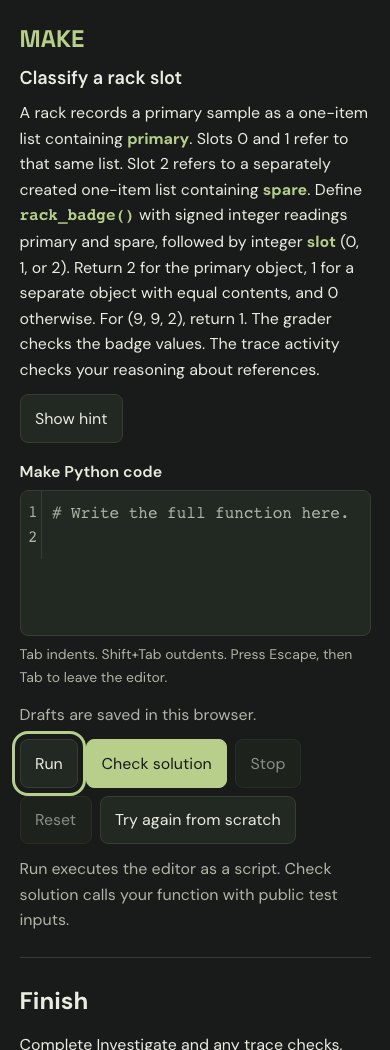
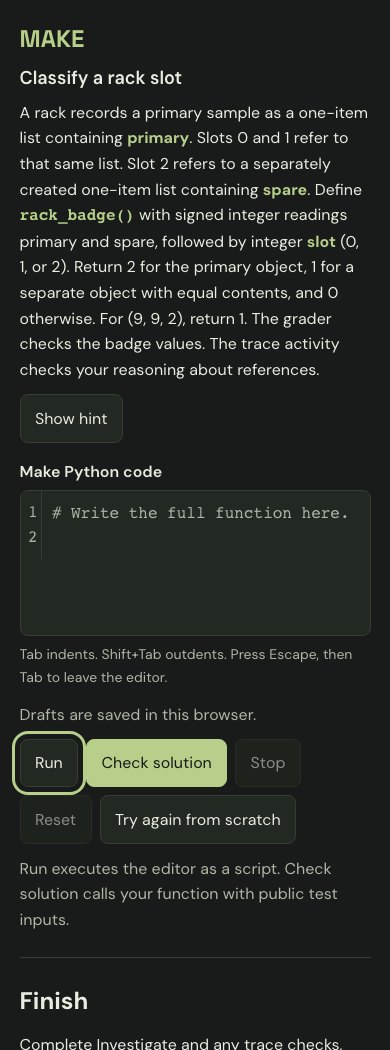
Add progressive help to mandatory trace checkpoints

diff --git a/src/learning/TraceCheckpoint.tsx b/src/learning/TraceCheckpoint.tsx
@@ -1,16 +1,36 @@
 import { useState } from 'react';
-import { gradeTrace } from './trace';
-import type { TraceAttempt, TraceCheck } from './trace';
+import { gradeTrace, traceHelpOrder } from './trace';
+import type { TraceAttempt, TraceCheck, TraceHelpLevel } from './trace';
 
-export function TraceCheckpoint({ check, attempts, onCheck }: {
-  check: TraceCheck; attempts: TraceAttempt[]; onCheck: (grade: ReturnType<typeof gradeTrace>) => void;
+export function TraceCheckpoint({ check, attempts, help, onHelp, onCheck }: {
+  check: TraceCheck; attempts: TraceAttempt[]; help: TraceHelpLevel[];
+  onHelp: (level: TraceHelpLevel) => void; onCheck: (grade: ReturnType<typeof gradeTrace>) => void;
 }) {
+  const next = traceHelpOrder.find(level => !help.includes(level));
   const last = attempts.at(-1);
   const [answers, setAnswers] = useState(() => last?.answers ?? check.rows.map(() => check.columns.map(() => '')));
   return <section className="pilot-section" aria-labelledby={check.id}>
     <h3 className="pilot-exercise-heading" id={check.id}>{check.title}</h3>
     <p>{check.prompt}</p>
     <pre>{check.source}</pre>
+    {help.length > 0 && <div className="pilot-feedback" aria-label="Trace help">
+      <h4>Trace help</h4>
+      {help.includes('concept') && <p>{check.help.concept}</p>}
+      {help.includes('guidance') && <p>{check.help.guidance}</p>}
+      {help.includes('worked') && <>
+        <h4>Worked trace</h4>
+        <ul>{check.rows.map(({ label, expected }, index) => <li key={label}>
+          <strong>{label}.</strong> {check.columns.map((column, col) => column + ': ' + expected[col]).join(' · ')}.
+          {' '}{check.help.worked[index]}
+        </li>)}</ul>
+        <p>Use the explanation to correct the table and check it again. Your result will be recorded as assisted practice.</p>
+      </>}
+    </div>}
+    {next && !last?.correct && <div className="pilot-controls">
+      <button type="button" onClick={() => onHelp(next)}>{{
+        concept: 'Show trace hint', guidance: 'Show tracing guidance', worked: 'Show worked trace',
+      }[next]}</button>
+    </div>}
     <form onSubmit={event => {
       event.preventDefault();
       if (!last?.correct && answers.every(row => row.every(answer => answer.trim()))) onCheck(gradeTrace(check, answers));

diff --git a/src/courses/f01-03.ts b/src/courses/f01-03.ts
@@ -69,6 +69,15 @@ export const f0103Sequence: LessonSequence = {
     columns: ['second', 'Same object?', 'Equal contents?'],
     rows: [{ label: 'Line 2', expected: ['a', 'yes', 'yes'] }, { label: 'Line 3', expected: ['b', 'no', 'yes'] },
       { label: 'Line 4', expected: ['a', 'yes', 'yes'] }],
+    help: {
+      concept: 'Draw an arrow from each name to a list. Check the arrows for identity and the entries for equality.',
+      guidance: 'A name on the right reuses its arrow target. A list display makes a different object, even if the entries match.',
+      worked: [
+        'Second receives the reference already held by first, so both comparisons are true.',
+        'The new list has the same entry as A, but the arrow from second now ends at B.',
+        'The assignment gives second the reference to A again, so both names share it.',
+      ],
+    },
     mistake: { id: 'equal-implies-identical', message: 'Your line 3 comparison treats the equal entry as the same object. Check where the list was created.',
       cells: [{ row: 1, column: 0, value: 'b' }, { row: 1, column: 1, value: 'yes' }, { row: 1, column: 2, value: 'yes' }] },
   },
@@ -77,6 +86,15 @@ export const f0103Sequence: LessonSequence = {
     prompt: 'Compare desk with archive after each indicated line. Answer yes or no. Follow both names when archive itself is rebound.',
     source: 'archive = [8]\ndesk = archive\narchive = [8]\nbackup = archive\ndesk = backup\ndesk = [4]',
     columns: ['Same object?', 'Equal contents?'],
+    help: {
+      concept: 'Track the object behind each name before comparing their entries.',
+      guidance: 'After rebinding archive, keep the prior arrow from desk until a line assigns to desk. Then follow the reference held by backup.',
+      worked: [
+        'Archive now points to a new list. Desk still points to the original list with the same entry.',
+        'Backup holds the new archive reference. Assigning it to desk reconnects the two names.',
+        'Desk now points to another list, and its entry differs from the archive entry.',
+      ],
+    },
     rows: [{ label: 'Line 3', expected: ['no', 'yes'] }, { label: 'Line 5', expected: ['yes', 'yes'] },
       { label: 'Line 6', expected: ['no', 'no'] }],
   },

diff --git a/src/learning/ClimbLesson.tsx b/src/learning/ClimbLesson.tsx
@@ -1,5 +1,5 @@
 import { TraceCheckpoint } from './TraceCheckpoint';
-import { traceAttempts } from './trace';
+import { traceAttempts, traceHelpFor } from './trace';
 import type { TraceCheck } from './trace';
 import { useEffect, useRef, useState } from 'react';
 import type { LoadedLesson } from '../courses/load-course-pack';
@@ -94,12 +94,19 @@ function LessonSession({ evidence, item }: { evidence: ReturnType<typeof useEvid
   }
 
   function trace(check: TraceCheck) {
-    return <TraceCheckpoint key={check.id} check={check} attempts={traceAttempts(session.traces, check)} onCheck={grade => {
-      const seenBefore = earlierSessions.some(item => traceAttempts(item.traces, check).length > 0);
-      update(old => ({ ...old, traces: [...(old.traces ?? []), {
-        ...grade, id: crypto.randomUUID(), at: now(), check: { id: check.id, version: check.version }, seenBefore,
-      }] }));
-    }} />;
+    const ref = { id: check.id, version: check.version };
+    return <TraceCheckpoint key={check.id} check={check} attempts={traceAttempts(session.traces, ref)}
+      help={traceHelpFor(session.traceHelp, ref)}
+      onHelp={level => update(old => traceHelpFor(old.traceHelp, ref).includes(level) ? old : {
+        ...old, traceHelp: [...(old.traceHelp ?? []), { check: ref, level, at: now() }],
+      })}
+      onCheck={grade => {
+        const seenBefore = earlierSessions.some(item =>
+          traceAttempts(item.traces, ref).length > 0 || traceHelpFor(item.traceHelp, ref).length > 0);
+        update(old => ({ ...old, traces: [...(old.traces ?? []), {
+          ...grade, id: crypto.randomUUID(), at: now(), check: ref, seenBefore,
+        }] }));
+      }} />;
   }
 
   function editor(exercise: Exercise, stage: 'Modify' | 'Build' | 'Make') {

diff --git a/src/learning/LessonReport.tsx b/src/learning/LessonReport.tsx
@@ -1,3 +1,4 @@
+import { traceHelpFor } from './trace';
 import type { ReactNode } from 'react';
 import type { LoadedLesson } from '../courses/load-course-pack';
 import { lessonPath } from '../app/areas';
@@ -49,7 +50,9 @@ export function LessonReport({ item, session, reports, onReport, storageAlert, o
             const first = session.traces?.find(item => item.check.id === attempt.check.id && item.check.version === attempt.check.version);
             const title = [sequence.trace, sequence.transferTrace].find(item => item?.id === attempt.check.id &&
               item.version === attempt.check.version)?.title ?? attempt.check.id;
-            return <li key={attempt.id}>{title}: {attempt.seenBefore ? 'passed on a previously seen trace' :
+            const help = traceHelpFor(session.traceHelp, attempt.check);
+            return <li key={attempt.id}>{title}: {help.includes('worked') ? 'passed after reviewing the worked trace (assisted)' :
+              help.length ? 'passed with trace guidance (assisted)' : attempt.seenBefore ? 'passed on a previously seen trace' :
               first?.id === attempt.id ? 'passed on the first check' : 'passed after feedback'}.</li>;
           })}
         </ul>

diff --git a/src/courses/f01-02.ts b/src/courses/f01-02.ts
@@ -65,6 +65,16 @@ export const f0102Sequence: LessonSequence = {
       { label: 'Line 1', expected: ['12', 'unbound'] }, { label: 'Line 2', expected: ['12', '12'] },
       { label: 'Line 3', expected: ['7', '12'] }, { label: 'Line 4', expected: ['9', '12'] },
     ],
+    help: {
+      concept: 'Give each name its own column. A change in one column does not automatically change the other.',
+      guidance: 'Read the assignment from right to left, then move only the name on the left. On line 4, use the value of stock from line 3.',
+      worked: [
+        'Only stock has been assigned, so before has no binding yet.',
+        'The assignment gives before the value currently bound to stock.',
+        'Subtract five from stock and rebind it. The assignment does not target before.',
+        'Add two to the current stock. Before still holds the earlier reading.',
+      ],
+    },
     mistake: { id: 'snapshot-followed-rebinding', message: 'Your last two rows move both names together. Which name appears on the left of each update?',
       cells: [{ row: 2, column: 0, value: '7' }, { row: 2, column: 1, value: '7' },
         { row: 3, column: 0, value: '9' }, { row: 3, column: 1, value: '9' }] },

diff --git a/src/learning/trace.ts b/src/learning/trace.ts
@@ -6,6 +6,7 @@ export interface TraceCheck extends ContentReference {
   source: string;
   columns: string[];
   rows: { label: string; expected: string[] }[];
+  help: { concept: string; guidance: string; worked: string[] };
   mistake?: { id: string; message: string; cells: { row: number; column: number; value: string }[] };
 }
 
@@ -28,4 +29,17 @@ export interface TraceAttempt extends ReturnType<typeof gradeTrace> {
 
 export function traceAttempts(attempts: TraceAttempt[] = [], check: ContentReference) {
   return attempts.filter(item => item.check.id === check.id && item.check.version === check.version);
+}
+
+export type TraceHelpLevel = 'concept' | 'guidance' | 'worked';
+export const traceHelpOrder: TraceHelpLevel[] = ['concept', 'guidance', 'worked'];
+
+export interface TraceHelpExposure {
+  check: ContentReference;
+  level: TraceHelpLevel;
+  at: string;
+}
+
+export function traceHelpFor(exposures: TraceHelpExposure[] = [], check: ContentReference) {
+  return exposures.filter(item => item.check.id === check.id && item.check.version === check.version).map(item => item.level);
 }

diff --git a/src/courses/load-course-pack.ts b/src/courses/load-course-pack.ts
@@ -77,7 +77,8 @@ export function loadCoursePack(pack: CoursePack, sequences: Record<string, Lesso
       for (const trace of [sequence.trace, sequence.transferTrace]) {
         if (!trace) continue;
         require(trace.id.startsWith(lessonId + '.') && version.test(trace.version) && trace.columns.length && trace.rows.length &&
-          new Set(trace.columns).size === trace.columns.length &&
+          trace.help.concept.trim() && trace.help.guidance.trim() && trace.help.worked.length === trace.rows.length &&
+          trace.help.worked.every(line => line.trim()) && new Set(trace.columns).size === trace.columns.length &&
           new Set(trace.rows.map(row => row.label)).size === trace.rows.length &&
           trace.rows.every(row => row.expected.length === trace.columns.length && row.expected.every(cell => cell.trim() === cell && cell === cell.toLowerCase() && !!cell)),
         trace.id + ' trace grid');

diff --git a/src/learning/evidence.ts b/src/learning/evidence.ts
@@ -1,4 +1,4 @@
-import type { TraceAttempt } from './trace';
+import type { TraceAttempt, TraceHelpExposure } from './trace';
 import type { ContentReference, HintLevel } from '../courses/contracts';
 import type { ExecutionResult, GradeResult } from '../execution/contracts';
 
@@ -40,6 +40,7 @@ export interface LessonEvidence {
   transferOpenedAt?: string;
   openedTransfer?: ContentReference;
   traces?: TraceAttempt[];
+  traceHelp?: TraceHelpExposure[];
   sweat?: Sweat;
   prediction?: {
     id: string; exercise: ContentReference; answer: string; committedAt: string;

diff --git a/docs/review/milestone-4a/README.md b/docs/review/milestone-4a/README.md
@@ -1,6 +1,6 @@
 # Milestone 4A teaching review
 
-Self-review updated 20 November 2026 after the independent review. Re-review is pending. Source is the [authoritative curriculum v1.1, F01](../../Python_AI_Interview_Learning_Curriculum_v1.1.md#2-f01--execution-state-and-references). The product sequence is F01.01 → F01.02 → F01.03. F01.01 content stays at lesson edition 1.3.0, with prior completed editions accepted for progression. This entry does not implement O00 placement or an F01 module gate.
+Self-review updated 20 November 2026 after the independent review. Final re-review and a product-owner hands-on trial of F01.02 and F01.03 are required before merge. Source is the [authoritative curriculum v1.1, F01](../../Python_AI_Interview_Learning_Curriculum_v1.1.md#2-f01--execution-state-and-references). The product sequence is F01.01 → F01.02 → F01.03. F01.01 content stays at lesson edition 1.3.0, with prior completed editions accepted for progression. This entry does not implement O00 placement or an F01 module gate.
 
 The three-lesson boundary lets the learner move from expression dependencies to time-varying bindings and then to two kinds of comparison. Identity uses list construction and indexing as a minimal bridge. F01.04 can reuse the identity diagrams when it introduces mutation. It would be premature to introduce mutation or copying while the learner is still distinguishing arrows and contents.
 
@@ -10,6 +10,7 @@ The three-lesson boundary lets the learner move from expression dependencies to 
 | Reassignment, desktop, a wrong prediction | [Investigate and learner-confirmed hypothesis](reassignment-investigate.jpg) |
 | Reassignment, incorrect intermediate binding | [Graded state table](reassignment-trace.jpg) |
 | Identity, narrow dark theme after the handoff trace | [Identity and equality checked separately](identity-transfer-trace.jpg) |
+| Reassignment, worked trace requested after repeated mistakes | [Worked explanation and continuation](reassignment-worked-trace.jpg) |
 | Reassignment, desktop, assisted Make followed by unaided transfer | [Saved result](reassignment-report.jpg) |
 | Identity, narrow dark theme and blank editor | [Make contract, hint disclosure and editor](identity-make-dark-mobile.jpg) |
 
@@ -42,3 +43,10 @@ The content report and automated suite executed the existing pilot and both new 
 ## Independent review checklist
 
 Read both lessons in order alongside the full curriculum. Verify the stated prerequisites, copy, intended and alternative solutions, exact levels of disclosure, and how fresh transfer differs from Make. Review the checks for cases in which a shallow implementation passes. Inspect the keyboard route, history boundaries, both themes and responsive screenshots. Physical Android, Safari and screen-reader behavior were outside the synthetic Chromium checks. There are no durable cross-device or comprehensive multi-tab guarantees. The authoring report checks reliable executable and structural conditions; pedagogical review and learner outcomes require separate evidence.
+
+
+## Trace assistance and owner trial
+
+All three gated tables offer a conceptual hint, a more concrete tracing method and a learner-requested worked explanation for each row. A wrong check never opens the answer. Learners can use the worked trace to correct their own table and submit it. Each help exposure stores the trace ID, edition, level and time separately from the answers and correctness. The report labels passes with trace guidance or the worked explanation as assisted. Coding passes and transfer gates retain their existing rules.
+
+For the owner trial, try both lessons on the local development instance. Submit a wrong intermediate binding or comparison twice, ask for each help level, reload and use the worked explanation to finish the table. Check that the subsequent activity opens and that the saved report describes the trace assistance and coding outcome separately. In F01.03, try the same flow on the handoff trace after revealing the Make solution.
